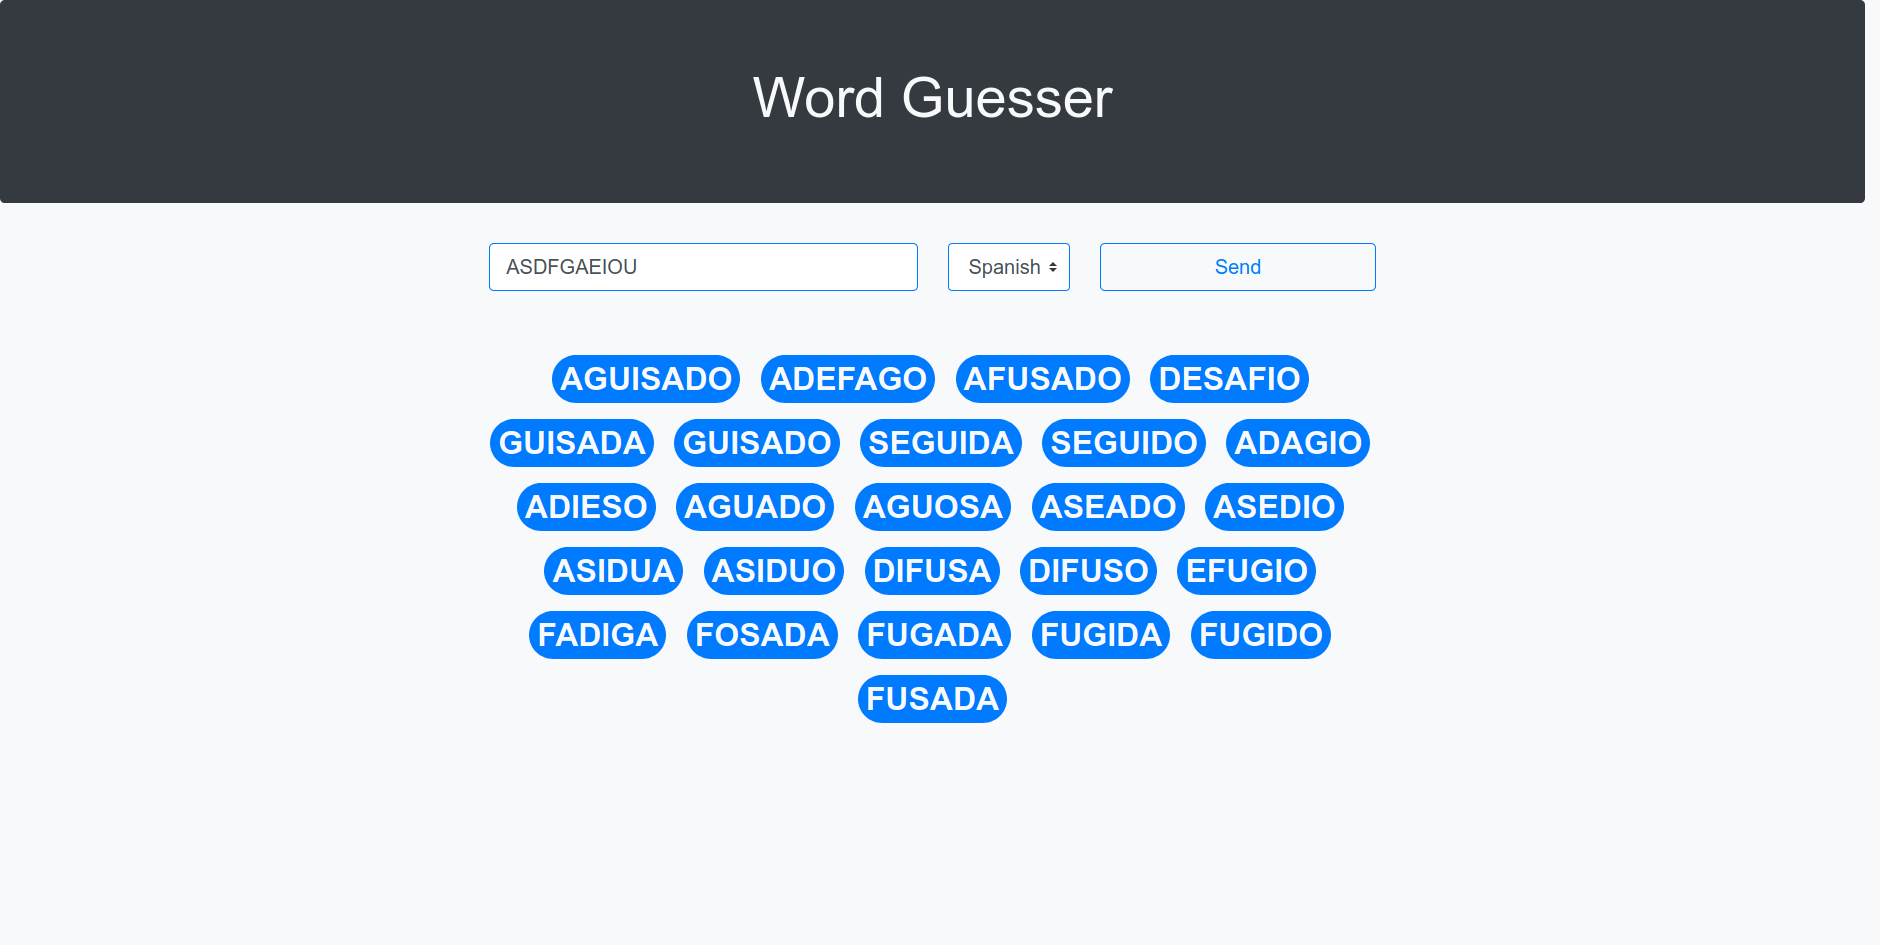
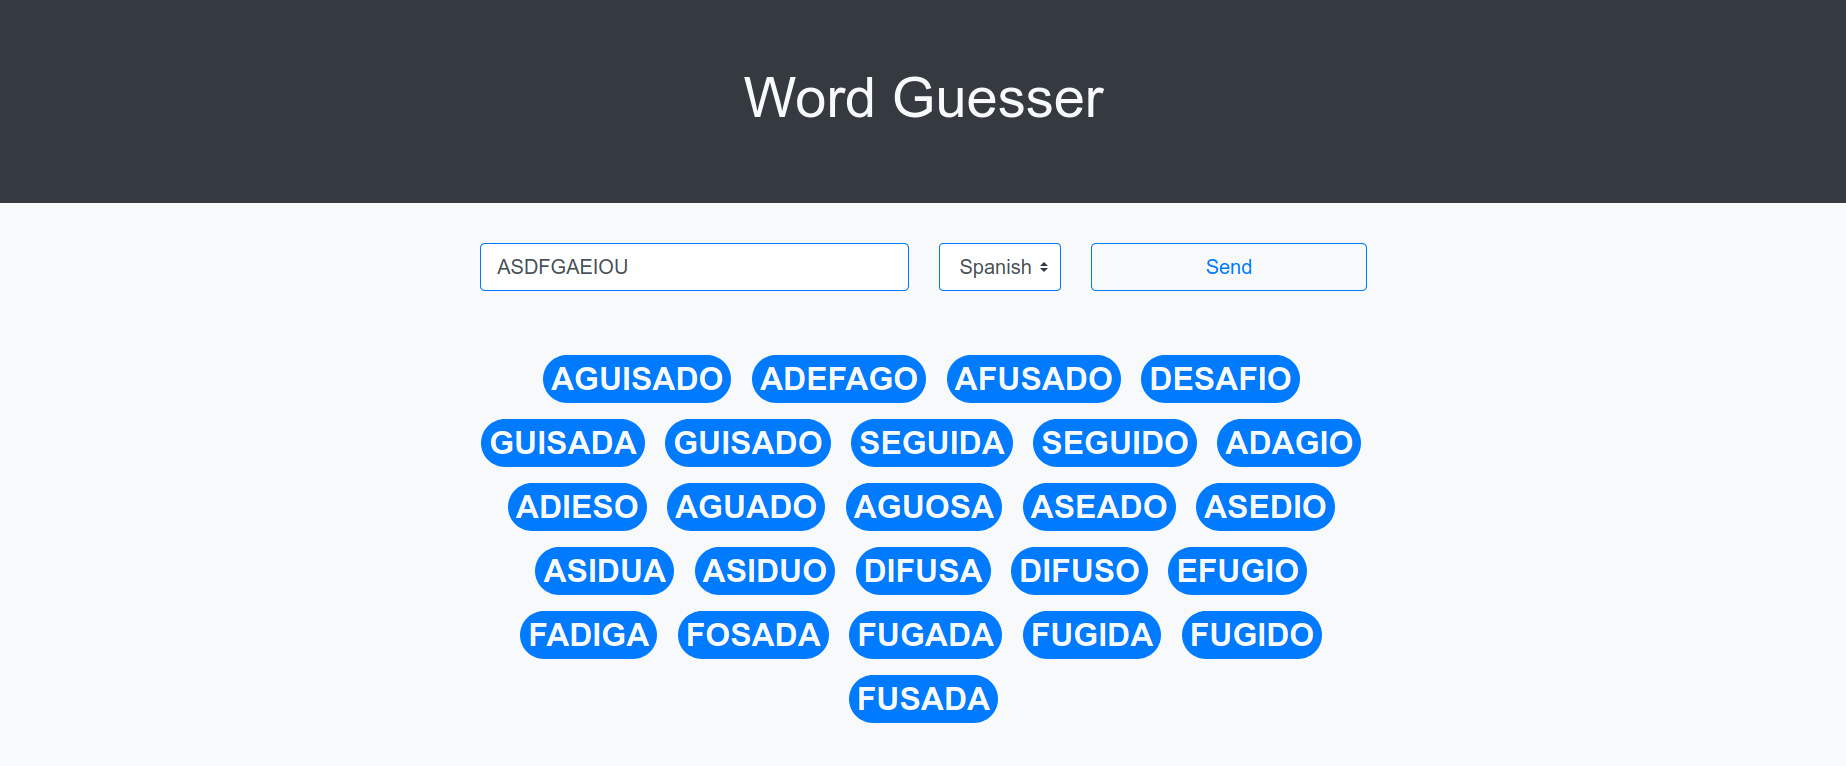
Update docs

Changed region(s): [[0.247, 0.3303, 0.7411, 0.9608], [0.0, 0.0, 1.0, 0.3003], [0.4014, 0.0601, 0.6176, 0.1501]]

diff --git a/main.py b/main.py
@@ -11,6 +11,8 @@ CORS_DOMAIN = os.getenv("CORS_DOMAIN", "*")
 
 
 def cloud_function(request):
+    # CORS support
+    # https://cloud.google.com/functions/docs/writing/http?hl=es-419#preflight_request
     if request.method == "OPTIONS":
         headers = {
             "Access-Control-Allow-Origin": CORS_DOMAIN,

diff --git a/README.md b/README.md
@@ -1,1 +1,56 @@
 # Word Guesser
+
+This repository contains the source code of a Python 3 library that can guess words from a sequence of unordered letters. The library uses an internal dictionary to validate the words, at this moment supports only spanish and english languages.
+
+## 
+
+## Web application
+
+To demonstrate the use of the library a simple web application has been created. This demo application can be tried in the [word-guesser web page](https://lmont.es/word-guesser). In the next image we can see a screen capture from the web application.
+
+![](images/screenshot.png)
+
+The application code is also located in this repository. The file  [index.html](index.html) contains all the frontend code.
+
+The file [main.py](main.py) uses the library to implement a REST API that is used by the web application. That API is deployed as a [Cloud Function](https://cloud.google.com/functions) in [Google Cloud](https://cloud.google.com).
+
+In order to ease the deployment of the API as a cloud function the code can be packaged as a zip file. We can use the [create-zip.sh](create-zip.sh) script to do it. When this script is executed it creates a file called **bundle.zip** with all the necessary file structure.
+
+The tested cloud function configuration is:
+
+* **Runtime**: Python 3.8
+* **Memory**: 256 MiB
+* **Executed function**: cloud_function
+
+## Others
+
+### Test package
+
+```bash
+pip install -r requirements-dev.txt
+```
+
+```bash
+$ pytest
+
+============================================================================== test session starts ===============================================================================
+platform linux -- Python 3.7.4, pytest-5.4.1, py-1.8.1, pluggy-0.13.1
+plugins: anyio-2.0.2
+collected 4 items                                                                                                                                                           
+tests/test_word_guesser.py ....                                                                                                                                            [100%]
+
+=============================================================================== 4 passed in 0.67s ================================================================================
+```
+
+### Build package word-guesser
+
+```bash
+python setup.py sdist bdist_wheel
+```
+
+## Useful links
+
+* [Handling CORS requests in Google Cloud functions](https://cloud.google.com/functions/docs/writing/http?hl=en#handling_cors_requests)
+* [Google Cloud functions source code structure](https://cloud.google.com/functions/docs/writing?hl=en#structuring_source_code)
+* [Authoritative guide to CORS for REST APIs](https://www.moesif.com/blog/technical/cors/Authoritative-Guide-to-CORS-Cross-Origin-Resource-Sharing-for-REST-APIs/)
+* [Replace accent marks preserving special characters](https://stackoverflow.com/questions/29984925/replace-accent-marks-preserving-special-characters)
